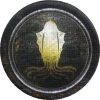
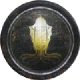
Adds flip effect on reveals order

diff --git a/app/styles/app.scss b/app/styles/app.scss
@@ -80,11 +80,14 @@ button {
       }
     }
 
-    .footman, .knight, .ship, .siege,
+    .piece {
+      position: static !important;
+    }
+
+    .piece, .footman, .knight, .ship, .siege,
     .march, .march-m, .march-p {
       background-size: 100%;
       float: left;
-      position: static;
       width: 44px;
       height: 52px;
     }
@@ -134,15 +137,8 @@ button {
 @mixin order-token {
   background-position: center center;
   background-repeat: no-repeat;
-  height: 83px;
-  width: 83px;
-}
-
-@mixin order-cover {
-  background-position: center center;
-  background-repeat: no-repeat;
-  height: 103px;
-  width: 103px;
+  height: 80px;
+  width: 80px;
 }
 
 .march {
@@ -161,43 +157,43 @@ button {
 }
 
 .baratheon {
-  &.order-cover {
-    @include order-cover;
+  .order-cover {
+    @include order-token;
     background-image: url("images/order-covers/baratheon.png");
   }
 }
 
 .greyjoy {
-  &.order-cover {
-    @include order-cover;
+  .order-cover {
+    @include order-token;
     background-image: url("images/order-covers/greyjoy.png");
   }
 }
 
 .lannister {
-  &.order-cover {
-    @include order-cover;
+  .order-cover {
+    @include order-token;
     background-image: url("images/order-covers/lannister.png");
   }
 }
 
 .martell {
-  &.order-cover {
-    @include order-cover;
+  .order-cover {
+    @include order-token;
     background-image: url("images/order-covers/martell.png");
   }
 }
 
 .stark {
-  &.order-cover {
-    @include order-cover;
+  .order-cover {
+    @include order-token;
     background-image: url("images/order-covers/stark.png");
   }
 }
 
 .tyrell {
   &.order-cover {
-    @include order-cover;
+    @include order-token;
     background-image: url("images/order-covers/tyrell.png");
   }
 }
@@ -476,3 +472,41 @@ button {
   }
 }
 
+/* entire container, keeps perspective */
+.flippable {
+  perspective: 1000;
+
+  /* flip the pane when add the class */
+  &.flipped .flipper {
+    transform: rotateY(180deg);
+  }
+
+  /* flip speed goes here */
+  .flipper {
+    transition: 0.6s;
+    transform-style: preserve-3d;
+  }
+
+  /* hide back of pane during swap */
+  .back, .front {
+    backface-visibility: hidden;
+
+    top: 0;
+    left: 0;
+  }
+
+  /* back pane, placed above back */
+  .back {
+    z-index: 2;
+    /* for firefox 31 */
+    transform: rotateY(0deg);
+  }
+
+  /* back, initially hidden pane */
+  .front {
+    transform: rotateY(180deg);
+    position: absolute;
+    top: 0;
+    left: 0;
+  }
+}

diff --git a/app/components/order-token-component.js b/app/components/order-token-component.js
@@ -5,8 +5,8 @@ const { computed, observer } = Ember;
 
 export default Ember.Component.extend(Draggable, {
   tagName: "div",
-  classNames: ["piece"],
-  classNameBindings: ["orderToken.house", "orderClass"],
+  classNames: ["piece", "flippable"],
+  classNameBindings: ["orderToken.house", "flippedCssClass"],
   attributeBindings: ["id", "style"],
 
   id: computed(function () {
@@ -28,6 +28,14 @@ export default Ember.Component.extend(Draggable, {
     orderType = Ember.String.dasherize(orderType);
     let cssClass = this.isFaceup() ? orderType : "order-cover";
     return cssClass;
+  }),
+
+  flippedCssClass: computed("orderToken.faceup", function () {
+    return this.isFaceup() ? "flipped" : "";
+  }),
+
+  isFlipperEnabled: computed("orderToken.territory", function () {
+    return this.get("orderToken.territory.id") !== null;
   }),
 
   isFaceup: function () {

diff --git a/app/mixins/draggable.js b/app/mixins/draggable.js
@@ -30,7 +30,7 @@ export default Ember.Mixin.create({
       var elm = $(this);
 
       //fix position of object on the screen
-      elm.offset(window.offset);
+      //elm.offset(window.offset);
 
       elm.css('pointer-events', "auto");
 
